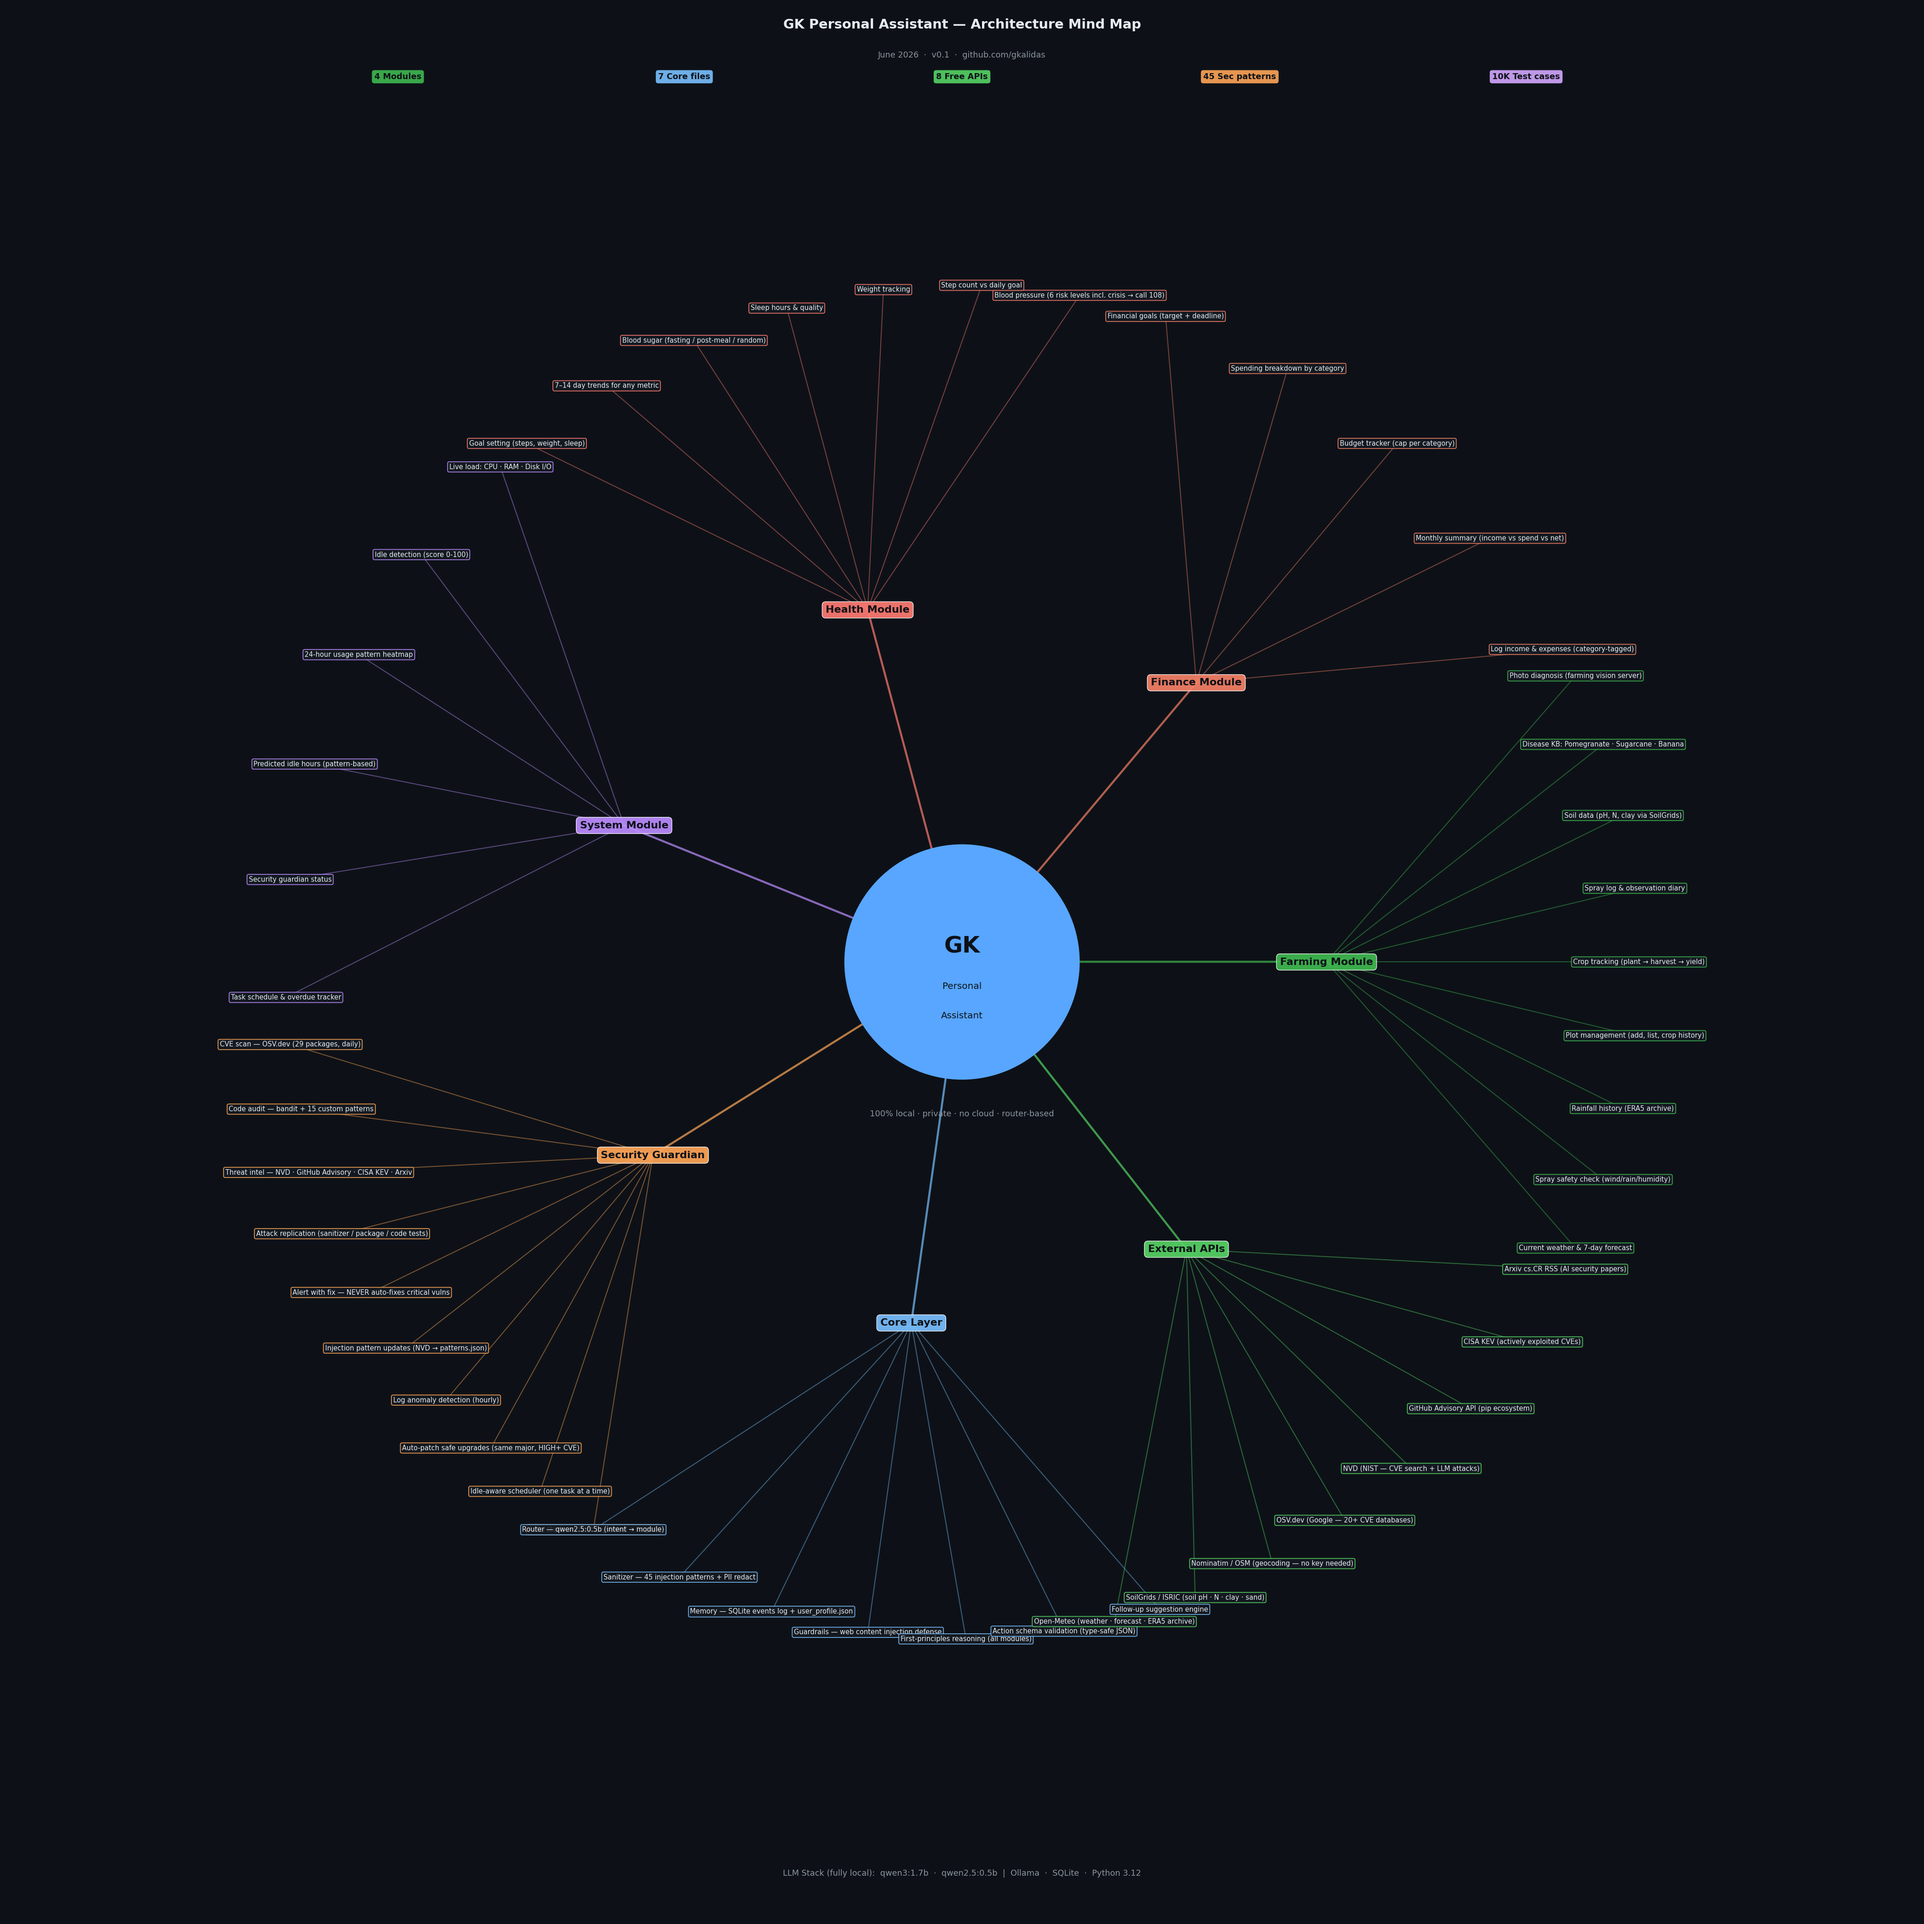
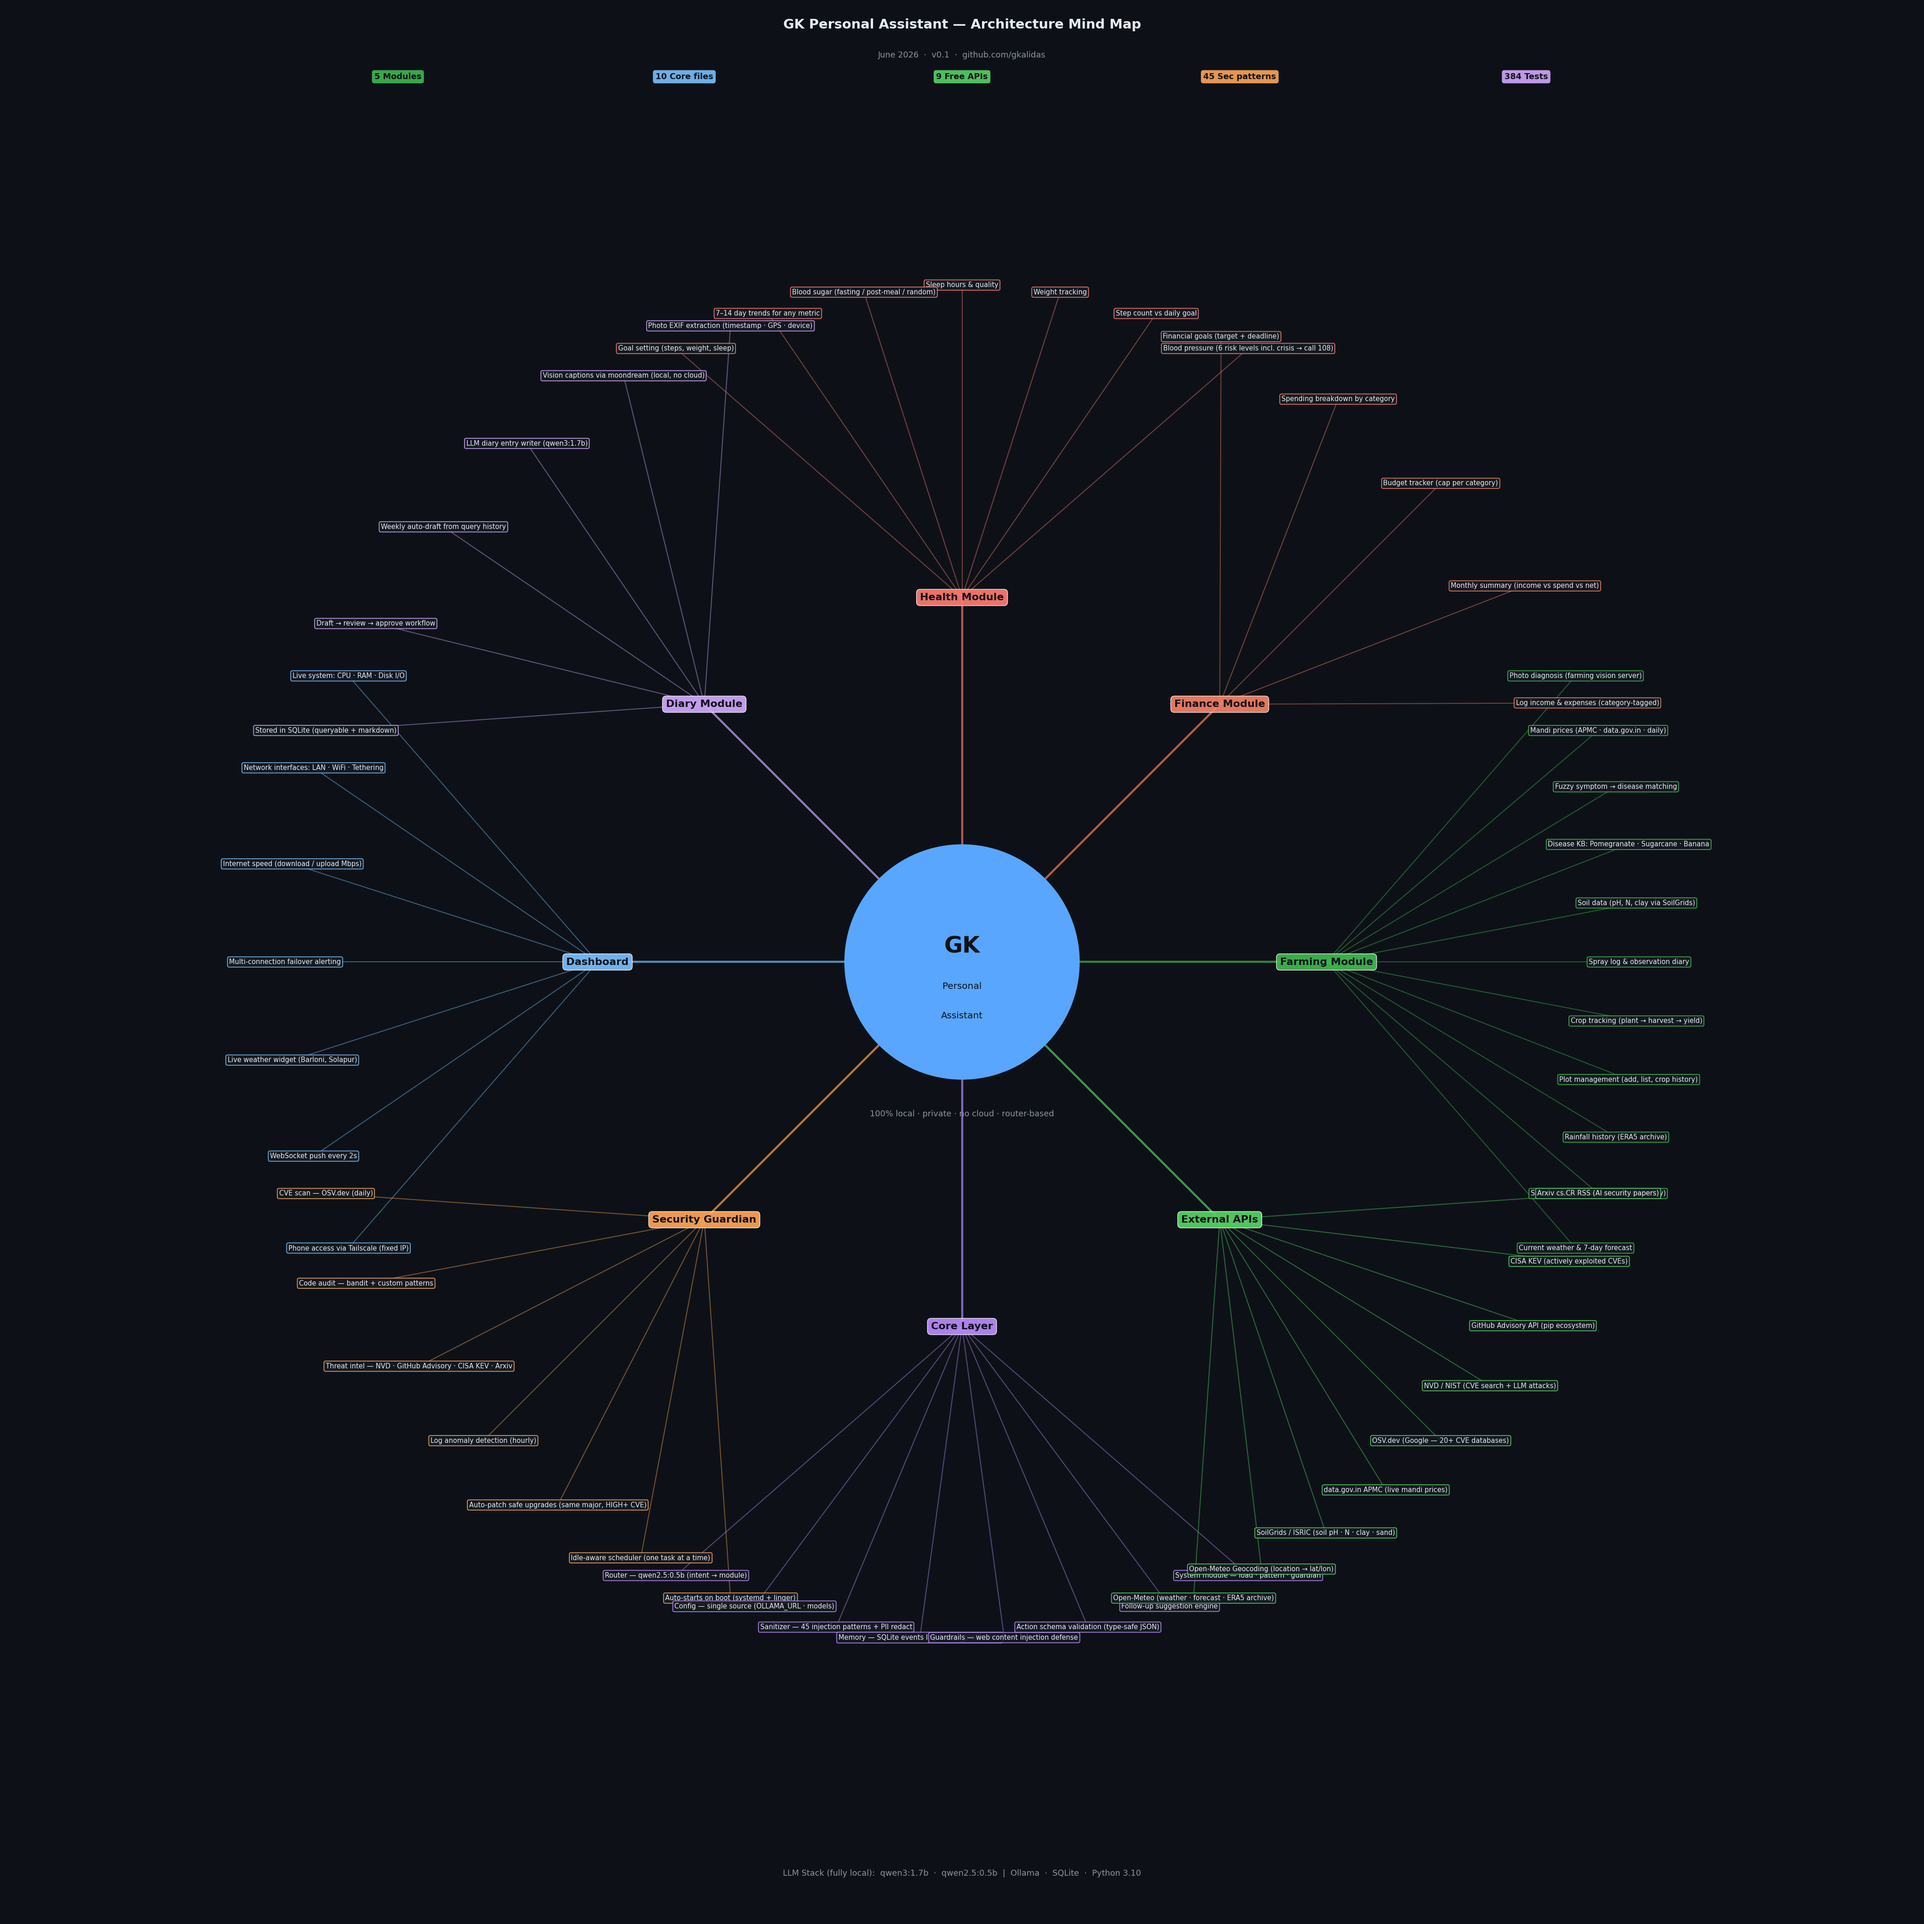
docs: update mindmap — add Diary, Dashboard, Mandi API, fix stats
- Added Diary Module branch (moondream, EXIF, LLM writer, approve flow)
- Added Dashboard branch (system/network/weather, Tailscale, WebSocket)
- Farming: added Mandi prices + fuzzy symptom matching
- External APIs: replaced "Nominatim/OSM" with Open-Meteo Geocoding + data.gov.in
- Stats: 4→5 modules, 7→10 core files, 8→9 APIs, 10K tests→384 tests
- LLM stack: Python 3.12→3.10

diff --git a/scripts/generate_mindmap.py b/scripts/generate_mindmap.py
@@ -46,16 +46,18 @@ BRANCHES = [
         "Spray log & observation diary",
         "Soil data (pH, N, clay via SoilGrids)",
         "Disease KB: Pomegranate · Sugarcane · Banana",
+        "Fuzzy symptom → disease matching",
+        "Mandi prices (APMC · data.gov.in · daily)",
         "Photo diagnosis (farming vision server)",
     ]),
-    ( 50, "Finance Module",   "finance", [
+    ( 45, "Finance Module",   "finance", [
         "Log income & expenses (category-tagged)",
         "Monthly summary (income vs spend vs net)",
         "Budget tracker (cap per category)",
         "Spending breakdown by category",
         "Financial goals (target + deadline)",
     ]),
-    (105, "Health Module",    "health", [
+    ( 90, "Health Module",    "health", [
         "Blood pressure (6 risk levels incl. crisis → call 108)",
         "Step count vs daily goal",
         "Weight tracking",
@@ -64,41 +66,49 @@ BRANCHES = [
         "7–14 day trends for any metric",
         "Goal setting (steps, weight, sleep)",
     ]),
-    (158, "System Module",    "core", [
-        "Live load: CPU · RAM · Disk I/O",
-        "Idle detection (score 0-100)",
-        "24-hour usage pattern heatmap",
-        "Predicted idle hours (pattern-based)",
-        "Security guardian status",
-        "Task schedule & overdue tracker",
+    (135, "Diary Module",     "eval", [
+        "Photo EXIF extraction (timestamp · GPS · device)",
+        "Vision captions via moondream (local, no cloud)",
+        "LLM diary entry writer (qwen3:1.7b)",
+        "Weekly auto-draft from query history",
+        "Draft → review → approve workflow",
+        "Stored in SQLite (queryable + markdown)",
     ]),
-    (212, "Security Guardian","security", [
-        "CVE scan — OSV.dev (29 packages, daily)",
-        "Code audit — bandit + 15 custom patterns",
+    (180, "Dashboard",        "llm", [
+        "Live system: CPU · RAM · Disk I/O",
+        "Network interfaces: LAN · WiFi · Tethering",
+        "Internet speed (download / upload Mbps)",
+        "Multi-connection failover alerting",
+        "Live weather widget (Barloni, Solapur)",
+        "WebSocket push every 2s",
+        "Phone access via Tailscale (fixed IP)",
+    ]),
+    (225, "Security Guardian","security", [
+        "CVE scan — OSV.dev (daily)",
+        "Code audit — bandit + custom patterns",
         "Threat intel — NVD · GitHub Advisory · CISA KEV · Arxiv",
-        "Attack replication (sanitizer / package / code tests)",
-        "Alert with fix — NEVER auto-fixes critical vulns",
-        "Injection pattern updates (NVD → patterns.json)",
         "Log anomaly detection (hourly)",
         "Auto-patch safe upgrades (same major, HIGH+ CVE)",
         "Idle-aware scheduler (one task at a time)",
         "Auto-starts on boot (systemd + linger)",
     ]),
-    (262, "Core Layer",       "llm", [
+    (270, "Core Layer",       "core", [
         "Router — qwen2.5:0.5b (intent → module)",
+        "Config — single source (OLLAMA_URL · models)",
         "Sanitizer — 45 injection patterns + PII redact",
         "Memory — SQLite events log + user_profile.json",
         "Guardrails — web content injection defense",
-        "First-principles reasoning (all modules)",
         "Action schema validation (type-safe JSON)",
         "Follow-up suggestion engine",
+        "System module — load · pattern · guardian",
     ]),
-    (308, "External APIs",    "apis", [
+    (315, "External APIs",    "apis", [
         "Open-Meteo (weather · forecast · ERA5 archive)",
+        "Open-Meteo Geocoding (location → lat/lon)",
         "SoilGrids / ISRIC (soil pH · N · clay · sand)",
-        "Nominatim / OSM (geocoding — no key needed)",
+        "data.gov.in APMC (live mandi prices)",
         "OSV.dev (Google — 20+ CVE databases)",
-        "NVD (NIST — CVE search + LLM attacks)",
+        "NVD / NIST (CVE search + LLM attacks)",
         "GitHub Advisory API (pip ecosystem)",
         "CISA KEV (actively exploited CVEs)",
         "Arxiv cs.CR RSS (AI security papers)",
@@ -206,16 +216,16 @@ def build(fig, ax):
     # ── LLM stack badge (bottom-center) ──
     ax.text(0, -10.5,
             "LLM Stack (fully local):  qwen3:1.7b  ·  qwen2.5:0.5b  |  "
-            "Ollama  ·  SQLite  ·  Python 3.12",
+            "Ollama  ·  SQLite  ·  Python 3.10",
             ha="center", va="center", fontsize=8, color=C["sub_text"])
 
     # ── Stats badges ──
     stats = [
-        ("4 Modules",     -6.5, 10.2, C["farming"]),
-        ("7 Core files",  -3.2, 10.2, C["llm"]),
-        ("8 Free APIs",    0.0, 10.2, C["apis"]),
-        ("45 Sec patterns",3.2, 10.2, C["security"]),
-        ("10K Test cases", 6.5, 10.2, C["eval"]),
+        ("5 Modules",      -6.5, 10.2, C["farming"]),
+        ("10 Core files",  -3.2, 10.2, C["llm"]),
+        ("9 Free APIs",     0.0, 10.2, C["apis"]),
+        ("45 Sec patterns", 3.2, 10.2, C["security"]),
+        ("384 Tests",       6.5, 10.2, C["eval"]),
     ]
     for label, sx, sy, sc in stats:
         ax.text(sx, sy, label, ha="center", va="center", fontsize=8,
